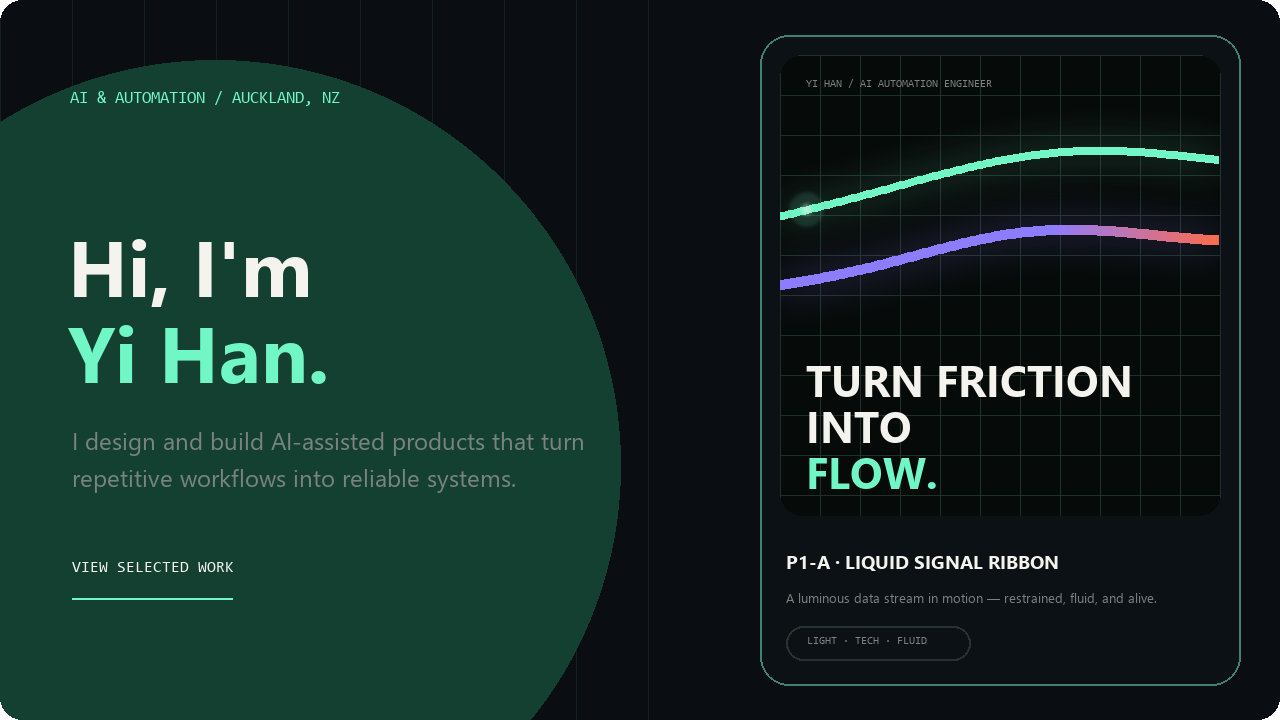
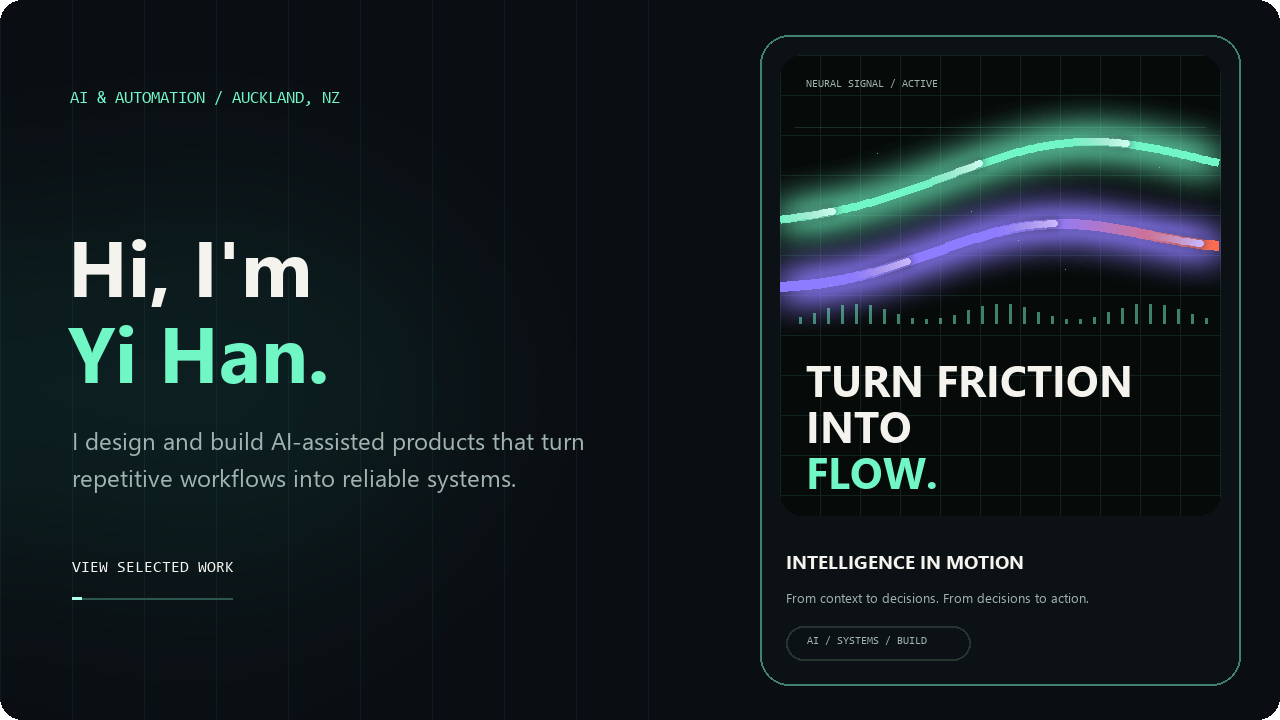
feat: enhance profile with glowing signals and particle motion

diff --git a/scripts/render_hero.py b/scripts/render_hero.py
@@ -16,7 +16,7 @@ BG = "#0A0E13"
 CARD = "#0C1116"
 ART = "#060A09"
 OFF_WHITE = "#F4F3ED"
-MUTED = "#79837F"
+MUTED = "#A1B4B0"
 MINT = "#71F6C6"
 VIOLET = "#8E7CFF"
 CORAL = "#FF6B4A"
@@ -63,10 +63,10 @@ def signal_y(x: int, frame: int, lane: int) -> int:
     time = frame / FRAME_COUNT * 2 * pi
     if lane == 0:
         base = 214 - 56 * progress - 24 * sin(progress * pi)
-        motion = 5 * sin(time + progress * 2 * pi)
+        motion = 14 * sin(time + progress * 2 * pi)
     else:
         base = 282 - 48 * progress - 18 * sin(progress * pi)
-        motion = 6 * sin(time * 1.15 + progress * 2.3 * pi)
+        motion = 12 * sin(time + progress * 2.3 * pi)
     return int(base + motion)
 
 
@@ -93,8 +93,10 @@ def draw_background(image: Image.Image) -> None:
     draw = ImageDraw.Draw(image, "RGBA")
     draw.rounded_rectangle((0, 0, WIDTH - 1, HEIGHT - 1), 22, fill=BG)
     for x in range(0, 720, 72):
-        draw.line((x, 0, x, HEIGHT), fill=(21, 31, 29, 38))
-    draw.ellipse((-190, 60, 620, 870), fill=(20, 64, 50, 22))
+        draw.line((x, 0, x, HEIGHT), fill="#101C21")
+    haze = Image.new("RGBA", image.size)
+    ImageDraw.Draw(haze).ellipse((-120, 140, 520, 640), fill=(30, 145, 121, 32))
+    image.alpha_composite(haze.filter(ImageFilter.GaussianBlur(100)))
 
 
 def draw_left_intro(draw: ImageDraw.ImageDraw) -> None:
@@ -120,16 +122,16 @@ def draw_card_art(image: Image.Image) -> None:
     draw = ImageDraw.Draw(layer, "RGBA")
     draw.rectangle(ART_BOX, fill=ART)
     for x in range(ART_BOX[0], ART_BOX[2] + 1, 40):
-        draw.line((x, ART_BOX[1], x, ART_BOX[3]), fill=(29, 48, 41, 105))
+        draw.line((x, ART_BOX[1], x, ART_BOX[3]), fill="#11221F")
     for y in range(ART_BOX[1], ART_BOX[3] + 1, 40):
-        draw.line((ART_BOX[0], y, ART_BOX[2], y), fill=(29, 48, 41, 105))
+        draw.line((ART_BOX[0], y, ART_BOX[2], y), fill="#11221F")
     layer.putalpha(art_mask())
     image.alpha_composite(layer)
 
 
 def draw_signal(image: Image.Image, mask: Image.Image, color: tuple[int, int, int]) -> None:
     glow_alpha = mask.filter(ImageFilter.GaussianBlur(18)).point(
-        lambda value: value // 2
+        lambda value: min(190, value * 4)
     )
     glow_alpha = ImageChops.multiply(glow_alpha, art_mask())
     glow = Image.new("RGBA", image.size, color + (0,))
@@ -143,7 +145,6 @@ def draw_signal(image: Image.Image, mask: Image.Image, color: tuple[int, int, in
 def draw_coral_tail(image: Image.Image, frame: int) -> None:
     mask = violet_signal_mask(frame)
     fade = Image.new("L", image.size, 0)
-    pixels = fade.load()
     for x in range(1050, ART_BOX[2] + 1):
         alpha = int(255 * (x - 1050) / (ART_BOX[2] - 1050))
         ImageDraw.Draw(fade).line((x, 190, x, 310), fill=alpha)
@@ -154,15 +155,43 @@ def draw_coral_tail(image: Image.Image, frame: int) -> None:
 
 
 def draw_particle(image: Image.Image, frame: int) -> None:
-    progress = frame / (FRAME_COUNT - 1)
-    x = ART_BOX[0] + int(progress * (ART_BOX[2] - ART_BOX[0]))
-    y = signal_y(x, frame, 0)
-    opacity = int(255 * sin(progress * pi) ** 0.4)
     particle = Image.new("RGBA", image.size, (0, 0, 0, 0))
     draw = ImageDraw.Draw(particle, "RGBA")
-    draw.ellipse((x - 18, y - 18, x + 18, y + 18), fill=(113, 246, 198, opacity // 4))
-    draw.ellipse((x - 5, y - 5, x + 5, y + 5), fill=(244, 243, 237, opacity))
-    image.alpha_composite(particle.filter(ImageFilter.GaussianBlur(2)))
+    for lane in range(2):
+        for packet in range(3):
+            progress = (frame / FRAME_COUNT * 2 + packet / 3 + lane * .17) % 1
+            for trail in range(18):
+                position = progress - trail * .007
+                if not 0 <= position <= 1:
+                    continue
+                x = 780 + int(position * 440)
+                y = signal_y(x, frame, lane)
+                alpha = int(255 * (1 - trail / 18))
+                color = (205, 255, 240) if lane == 0 else (203, 183, 255)
+                draw.ellipse((x-3, y-3, x+3, y+3), fill=color + (alpha,))
+    particle.putalpha(ImageChops.multiply(particle.getchannel("A"), art_mask()))
+    image.alpha_composite(particle.filter(ImageFilter.GaussianBlur(4)))
+    image.alpha_composite(particle)
+
+
+def draw_telemetry(image: Image.Image, frame: int) -> None:
+    layer = Image.new("RGBA", image.size)
+    draw = ImageDraw.Draw(layer, "RGBA")
+    phase = frame / FRAME_COUNT
+    scan = 115 + int(phase * 205)
+    draw.line((795, scan, 1205, scan), fill=(113, 246, 198, 40), width=1)
+    for index in range(30):
+        x = 800 + index * 14
+        height = 4 + int(16 * (1 + sin(index * .6 - phase * 4 * pi)) / 2)
+        draw.line((x, 323, x, 323-height), fill=(113, 246, 198, 130), width=3)
+    for index in range(8):
+        x = 830 + index * 47
+        y = 130 + int((index * 29 - phase * 100) % 160)
+        draw.point((x, y), fill=(137, 222, 216, 180))
+    x = 72 + int(phase * 160)
+    draw.line((72, 598, 232, 598), fill=(43, 87, 78, 255), width=2)
+    draw.line((max(72, x-35), 598, x, 598), fill=(176, 255, 235, 255), width=3)
+    image.alpha_composite(layer)
 
 
 def draw_card_headline(draw: ImageDraw.ImageDraw) -> None:
@@ -174,15 +203,15 @@ def draw_card_headline(draw: ImageDraw.ImageDraw) -> None:
 
 def draw_card_caption(draw: ImageDraw.ImageDraw) -> None:
     draw.text(
-        (786, 548), "P1-A · LIQUID SIGNAL RIBBON",
+        (786, 548), "INTELLIGENCE IN MOTION",
         font=font(DISPLAY_FONT, 19), fill=OFF_WHITE,
     )
     draw.text(
-        (786, 588), "A luminous data stream in motion — restrained, fluid, and alive.",
+        (786, 588), "From context to decisions. From decisions to action.",
         font=font(REGULAR_FONT, 13), fill=MUTED,
     )
     draw.rounded_rectangle((786, 626, 970, 660), radius=17, outline=BORDER, width=2)
-    draw.text((807, 635), "LIGHT · TECH · FLUID", font=font(MONO_FONT, 11), fill=MUTED)
+    draw.text((807, 635), "AI / SYSTEMS / BUILD", font=font(MONO_FONT, 11), fill=MUTED)
 
 
 def draw_portrait_card(image: Image.Image, frame: int) -> None:
@@ -196,7 +225,7 @@ def draw_portrait_card(image: Image.Image, frame: int) -> None:
     draw_coral_tail(image, frame)
     draw_particle(image, frame)
     draw = ImageDraw.Draw(image, "RGBA")
-    draw.text((806, 78), "YI HAN / AI AUTOMATION ENGINEER", font=font(MONO_FONT, 11), fill=MUTED)
+    draw.text((806, 78), "NEURAL SIGNAL / ACTIVE", font=font(MONO_FONT, 11), fill=MUTED)
     draw_card_headline(draw)
     draw_card_caption(draw)
 
@@ -206,14 +235,21 @@ def make_frame(frame: int) -> Image.Image:
     draw_background(image)
     draw_left_intro(ImageDraw.Draw(image, "RGBA"))
     draw_portrait_card(image, frame)
+    draw_telemetry(image, frame)
     image.putalpha(rounded_alpha())
     return image
+
+
+@cache
+def animation_palette() -> Image.Image:
+    return make_frame(6).convert("RGB").quantize(colors=96)
 
 
 def quantize(image: Image.Image) -> Image.Image:
     opaque = Image.new("RGB", image.size, BG)
     opaque.paste(image.convert("RGB"), mask=image.getchannel("A"))
-    palette_image = opaque.quantize(colors=64, method=Image.Quantize.MEDIANCUT)
+    # A shared palette keeps stationary pixels identical for GIF delta encoding.
+    palette_image = opaque.quantize(palette=animation_palette(), dither=Image.Dither.NONE)
     transparent = image.getchannel("A").point(lambda value: 255 if value == 0 else 0)
     palette_image.paste(255, mask=transparent)
     return palette_image
@@ -231,7 +267,7 @@ def render_assets(output_dir: Path) -> tuple[Path, Path]:
         duration=DURATION_MS,
         loop=0,
         optimize=True,
-        disposal=2,
+        disposal=1,
         transparency=255,
     )
     make_frame(6).save(png_path, optimize=True)

diff --git a/tests/test_readme.py b/tests/test_readme.py
@@ -36,7 +36,7 @@ class ReadmeTests(unittest.TestCase):
 
     def test_split_poster_hero_is_versioned(self) -> None:
         self.assertIn(
-            "assets/hero-split.gif?v=split-poster-20260903",
+            "assets/hero-split.gif?v=neural-motion-20260905",
             self.text,
         )
         self.assertNotIn("assets/hero.gif?v=", self.text)

diff --git a/README.md b/README.md
@@ -1,4 +1,4 @@
-![Hi, I'm Yi Han — AI automation engineer with a liquid signal poster.](assets/hero-split.gif?v=split-poster-20260903)
+![Hi, I'm Yi Han — AI automation engineer with animated neural signals.](assets/hero-split.gif?v=neural-motion-20260905)
 
 [![KiwiCue — bilingual Auckland event discovery with smart reminders.](assets/project-kiwicue.svg)](https://github.com/hannnnnnnny/kiwicue)
 
